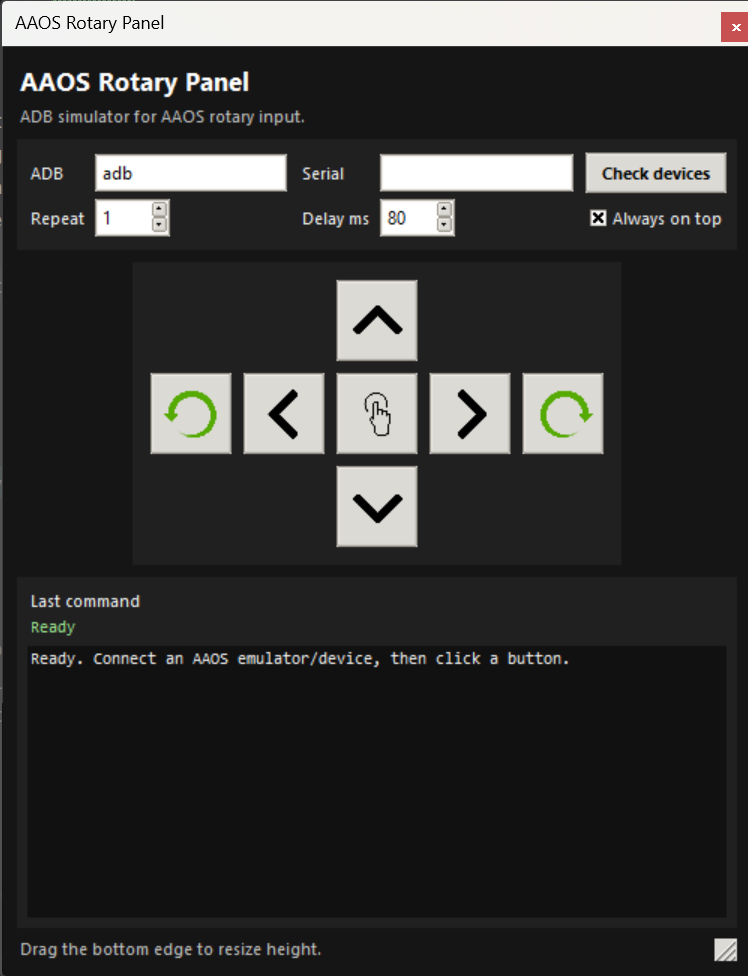
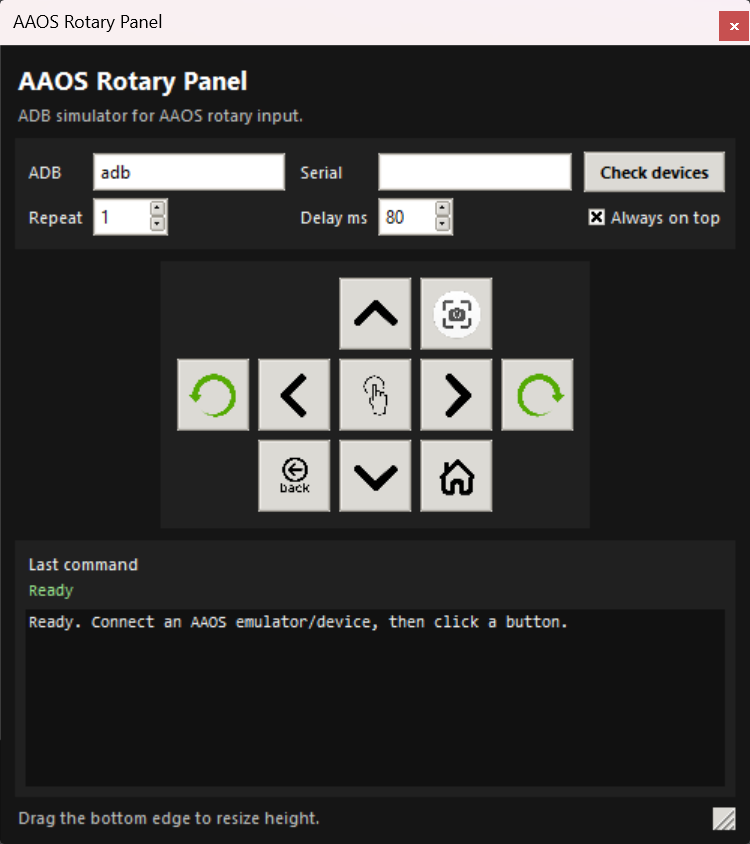
ccp v3

diff --git a/ccp.py b/ccp.py
@@ -8,8 +8,11 @@ Features:
 - Nudge left, right, up, down
 - Rotate counterclockwise / clockwise
 - Center button
+- Home and Back buttons
+- Device screenshot capture to the computer Downloads folder using adb pull
 - Optional Always on top mode
 - Vertically resizable window
+- Windows console hiding support
 
 Requirements:
 - Python 3 with tkinter
@@ -19,17 +22,19 @@ Requirements:
 
 from __future__ import annotations
 
+import ctypes
 import subprocess
 import sys
 import threading
 import time
+from datetime import datetime
 from pathlib import Path
 import tkinter as tk
 from tkinter import ttk
 
 APP_DIR = Path(__file__).resolve().parent
 
-# AAOS car_service commands.
+# AAOS car_service commands and Android key events.
 COMMANDS = {
     "rotate_left": ["shell", "cmd", "car_service", "inject-rotary"],
     "rotate_right": ["shell", "cmd", "car_service", "inject-rotary", "-c", "true"],
@@ -38,6 +43,8 @@ COMMANDS = {
     "tilt_left": ["shell", "cmd", "car_service", "inject-key", "282"],
     "tilt_right": ["shell", "cmd", "car_service", "inject-key", "283"],
     "enter": ["shell", "cmd", "car_service", "inject-key", "23"],
+    "home": ["shell", "input", "keyevent", "3"],
+    "back": ["shell", "input", "keyevent", "4"],
 }
 
 ICONS = {
@@ -48,6 +55,9 @@ ICONS = {
     "tilt_left": "left_arrow.png",
     "tilt_right": "right_arrow.png",
     "enter": "enter.png",
+    "home": "home_button.png",
+    "back": "back_button.png",
+    "screenshot": "screen_shot.png",
 }
 
 ACTION_NAMES = {
@@ -58,6 +68,9 @@ ACTION_NAMES = {
     "tilt_left": "Tilt left",
     "tilt_right": "Tilt right",
     "enter": "Enter",
+    "home": "Home",
+    "back": "Back",
+    "screenshot": "Screenshot",
 }
 
 TOOLTIPS = {
@@ -68,15 +81,49 @@ TOOLTIPS = {
     "tilt_left": "Nudge left",
     "tilt_right": "Nudge right",
     "enter": "Center button",
+    "home": "Home button",
+    "back": "Back button",
+    "screenshot": "Capture device screenshot to Downloads",
 }
+
+
+def hide_console_window() -> None:
+    """Hide the console window on Windows when the script is launched with python.exe."""
+    if not sys.platform.startswith("win"):
+        return
+    try:
+        console_window = ctypes.windll.kernel32.GetConsoleWindow()
+        if console_window:
+            ctypes.windll.user32.ShowWindow(console_window, 0)
+    except Exception:
+        # The GUI should still open even if the console cannot be hidden.
+        pass
+
+
+def subprocess_no_window_options() -> dict[str, object]:
+    """Return subprocess options that prevent child console windows on Windows."""
+    if not sys.platform.startswith("win"):
+        return {}
+
+    options: dict[str, object] = {}
+    startupinfo = subprocess.STARTUPINFO()
+    startupinfo.dwFlags |= subprocess.STARTF_USESHOWWINDOW
+    startupinfo.wShowWindow = subprocess.SW_HIDE
+    options["startupinfo"] = startupinfo
+
+    create_no_window = getattr(subprocess, "CREATE_NO_WINDOW", 0)
+    if create_no_window:
+        options["creationflags"] = create_no_window
+
+    return options
 
 
 class RotaryControlPanel(tk.Tk):
     def __init__(self) -> None:
         super().__init__()
         self.title("AAOS Rotary Panel")
-        self.geometry("500x430")
-        self.minsize(500, 330)
+        self.geometry("500x455")
+        self.minsize(500, 360)
         # Allow changing only the vertical size. Width stays compact.
         self.resizable(False, True)
 
@@ -164,21 +211,29 @@ class RotaryControlPanel(tk.Tk):
         control.pack(anchor="center", pady=(0, 8))
 
         for c in range(5):
-            control.columnconfigure(c, minsize=58)
+            control.columnconfigure(c, minsize=50)
         for r in range(3):
-            control.rowconfigure(r, minsize=58)
+            control.rowconfigure(r, minsize=50)
 
         # Compact physical layout:
-        #               tilt up
+        #                 tilt up | screenshot
         # rotate left | tilt left | enter | tilt right | rotate right
-        #              tilt down
+        # back                  | tilt down | home
+        #
+        # This keeps the extra buttons close to the directional cluster:
+        # - screenshot: right of Up and above Right
+        # - back: below-left of Left
+        # - home: right of Down and below Right
         self._add_icon_button(control, "tilt_up", 0, 2)
+        self._add_icon_button(control, "screenshot", 0, 3)
         self._add_icon_button(control, "rotate_left", 1, 0)
         self._add_icon_button(control, "tilt_left", 1, 1)
         self._add_icon_button(control, "enter", 1, 2)
         self._add_icon_button(control, "tilt_right", 1, 3)
         self._add_icon_button(control, "rotate_right", 1, 4)
+        self._add_icon_button(control, "back", 2, 1)
         self._add_icon_button(control, "tilt_down", 2, 2)
+        self._add_icon_button(control, "home", 2, 3)
 
         command_box = ttk.Frame(root, style="Panel.TFrame", padding=7)
         command_box.pack(fill="both", expand=True)
@@ -237,7 +292,7 @@ class RotaryControlPanel(tk.Tk):
             return None
         image = tk.PhotoImage(file=str(icon_path))
         max_dim = max(image.width(), image.height())
-        factor = max(1, round(max_dim / 40))
+        factor = max(1, round(max_dim / 36))
         if factor > 1:
             image = image.subsample(factor, factor)
         self.icons[key] = image
@@ -245,15 +300,21 @@ class RotaryControlPanel(tk.Tk):
 
     def _add_icon_button(self, parent: ttk.Frame, key: str, row: int, column: int) -> None:
         icon = self._load_icon(key)
+
+        if key == "screenshot":
+            command = self.take_screenshot
+        else:
+            command = lambda k=key: self.send_rotary_command(k)
+
         button = ttk.Button(
             parent,
             text="" if icon else ACTION_NAMES[key],
             image=icon,
             compound="center" if icon else "none",
             style="Icon.TButton",
-            command=lambda k=key: self.send_rotary_command(k),
+            command=command,
         )
-        button.grid(row=row, column=column, sticky="nsew", padx=4, pady=4, ipadx=1, ipady=1)
+        button.grid(row=row, column=column, sticky="nsew", padx=3, pady=3, ipadx=0, ipady=0)
         button.configure(width=4)
         self._add_tooltip(button, TOOLTIPS[key])
 
@@ -303,6 +364,90 @@ class RotaryControlPanel(tk.Tk):
         cmd = self._adb_base() + COMMANDS[key]
         self._run_command_async(cmd, ACTION_NAMES[key], repeat=repeat, delay_ms=delay_ms)
 
+    def take_screenshot(self) -> None:
+        timestamp = datetime.now().strftime("%Y%m%d_%H%M%S")
+        filename = f"aaos_screenshot_{timestamp}.png"
+        downloads_dir = Path.home() / "Downloads"
+        screenshot_path = downloads_dir / filename
+        remote_path = f"/sdcard/Download/{filename}"
+
+        self.last_command_var.set(f"screencap -> adb pull -> {screenshot_path}")
+        self._append_output(
+            "\n▶ Screenshot\n"
+            f"$ {' '.join(self._adb_base() + ['shell', 'screencap', '-p', remote_path])}\n"
+            f"$ {' '.join(self._adb_base() + ['pull', remote_path, str(screenshot_path)])}\n"
+        )
+
+        thread = threading.Thread(
+            target=self._screenshot_worker,
+            args=(remote_path, screenshot_path),
+            daemon=True,
+        )
+        thread.start()
+
+    def _run_process_for_screenshot(self, cmd: list[str], timeout: int = 20) -> subprocess.CompletedProcess[str]:
+        return subprocess.run(
+            cmd,
+            capture_output=True,
+            text=True,
+            timeout=timeout,
+            check=False,
+            **subprocess_no_window_options(),
+        )
+
+    @staticmethod
+    def _is_valid_png(path: Path) -> bool:
+        try:
+            if not path.exists() or path.stat().st_size < 8:
+                return False
+            with path.open("rb") as file:
+                return file.read(8) == b"\x89PNG\r\n\x1a\n"
+        except OSError:
+            return False
+
+    def _screenshot_worker(self, remote_path: str, screenshot_path: Path) -> None:
+        try:
+            screenshot_path.parent.mkdir(parents=True, exist_ok=True)
+            adb = self._adb_base()
+
+            # More reliable than streaming PNG bytes through stdout on Windows.
+            # First write a real PNG file on the device, then pull that file to Downloads.
+            capture = self._run_process_for_screenshot(adb + ["shell", "screencap", "-p", remote_path])
+            if capture.returncode != 0:
+                error = capture.stderr.strip() or capture.stdout.strip()
+                message = error or f"Screenshot failed. Exit code: {capture.returncode}"
+                self.after(0, lambda: self._append_output(message + "\n"))
+                return
+
+            pull = self._run_process_for_screenshot(adb + ["pull", remote_path, str(screenshot_path)])
+
+            # Clean up the temporary screenshot on the Android device.
+            self._run_process_for_screenshot(adb + ["shell", "rm", "-f", remote_path], timeout=8)
+
+            if pull.returncode != 0:
+                error = pull.stderr.strip() or pull.stdout.strip()
+                try:
+                    screenshot_path.unlink(missing_ok=True)
+                except OSError:
+                    pass
+                message = error or f"adb pull failed. Exit code: {pull.returncode}"
+            elif self._is_valid_png(screenshot_path):
+                message = f"Saved screenshot to: {screenshot_path}"
+            else:
+                try:
+                    screenshot_path.unlink(missing_ok=True)
+                except OSError:
+                    pass
+                message = "Screenshot failed. The pulled file was not a valid PNG."
+        except FileNotFoundError:
+            message = "adb not found. Set the full adb path or add adb to PATH."
+        except subprocess.TimeoutExpired:
+            message = "Screenshot timeout. Check the emulator/device and authorization state."
+        except OSError as error:
+            message = f"Screenshot failed: {error}"
+
+        self.after(0, lambda: self._append_output(message + "\n"))
+
     def _run_command_async(self, cmd: list[str], label: str, repeat: int, delay_ms: int) -> None:
         self.last_command_var.set(" ".join(cmd))
         self._append_output(f"\n▶ {label}\n$ {' '.join(cmd)}\n")
@@ -319,6 +464,7 @@ class RotaryControlPanel(tk.Tk):
                     text=True,
                     timeout=12,
                     check=False,
+                    **subprocess_no_window_options(),
                 )
                 if completed.stdout.strip():
                     outputs.append(completed.stdout.strip())
@@ -346,6 +492,11 @@ class RotaryControlPanel(tk.Tk):
         self.output.see("end")
 
 
-if __name__ == "__main__":
+def main() -> None:
+    hide_console_window()
     app = RotaryControlPanel()
     app.mainloop()
+
+
+if __name__ == "__main__":
+    main()

diff --git a/README.md b/README.md
@@ -4,19 +4,38 @@ A compact Python Tkinter panel for simulating Android Automotive OS rotary input
 
 ## Preview
 
-![AAOS Rotary Panel](preview.png)
+<p align="center">
+  <img src="preview.png" width="420"/>
+</p>
 
 ## Features
 
 - Rotate left / right
 - Tilt / nudge up, down, left, right
 - Enter / center button
+- Home and Back buttons
+- Capture device screenshot to the computer Downloads folder using `screencap` + `adb pull`
 - Check connected ADB devices
 - Repeat and delay controls
 - Always-on-top floating window
 - Vertically resizable panel while keeping the width compact
+- Windows no-terminal launcher via `ccp.pyw`
 
 ## Run
+
+Recommended on Windows, without terminal window:
+
+```bash
+pythonw ccp.pyw
+```
+
+Or double-click:
+
+```text
+cpp.pyw
+```
+
+Development mode:
 
 ```bash
 python ccp.py
@@ -27,3 +46,5 @@ python ccp.py
 - Drag the bottom edge or bottom-right resize grip to change the panel height.
 - The width is locked to keep the panel compact beside Android Studio or an emulator.
 - Set `ADB` to a full adb path if `adb` is not available in PATH.
+- Screenshots are saved as `aaos_screenshot_yyyyMMdd_HHmmss.png` in your computer `Downloads` folder.
+- Screenshot capture first creates the PNG on the Android device, then pulls it to the computer to avoid corrupted PNG output on Windows.